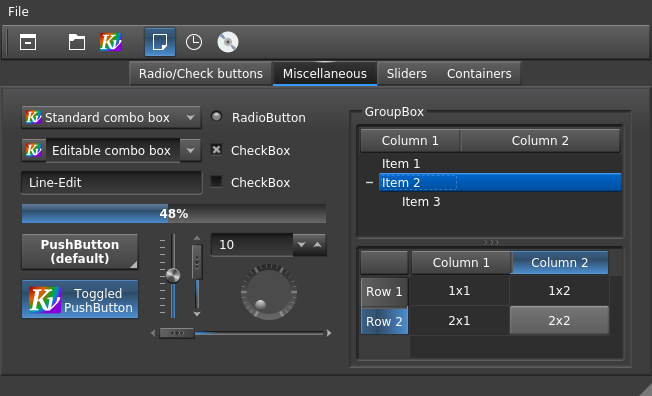
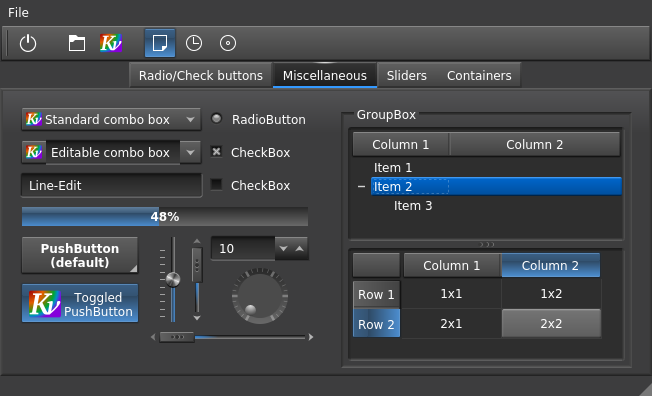
Updated the screenshots
They didn't reflect recent changes.

diff --git a/Kvantum/README.md b/Kvantum/README.md
@@ -34,6 +34,7 @@ My sincerest thanks go to all users whose bug reports, feature requests and sugg
 ![Default](screenshots/Default.png?raw=true "Default")
 ![KvAmbience](screenshots/KvAmbience.png?raw=true "KvAmbience")
 ![KvBeige](screenshots/KvBeige.png?raw=true "KvBeige")
+![KvGray](screenshots/KvGray.png?raw=true "KvGray")
 ![KvFlatLight](screenshots/KvFlatLight.png?raw=true "KvFlatLight")
 ![KvCurves3d](screenshots/KvCurves3d.png?raw=true "KvCurves3d")
 ![KvCurvesLight](screenshots/KvCurvesLight.png?raw=true "KvCurvesLight")
